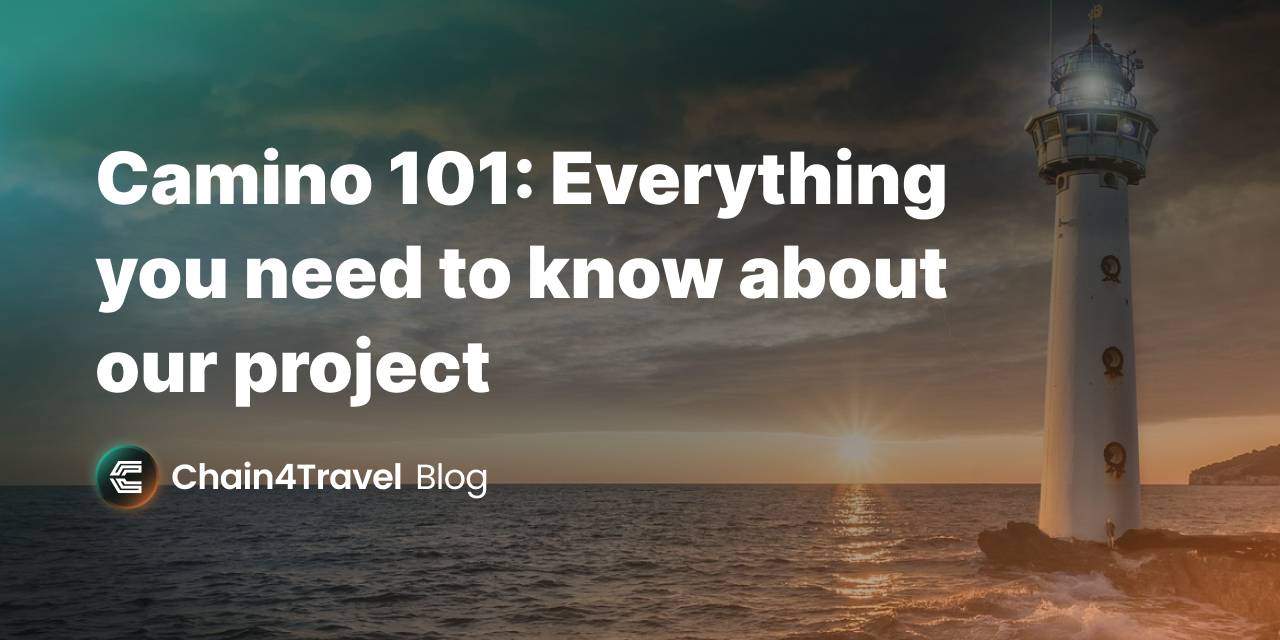
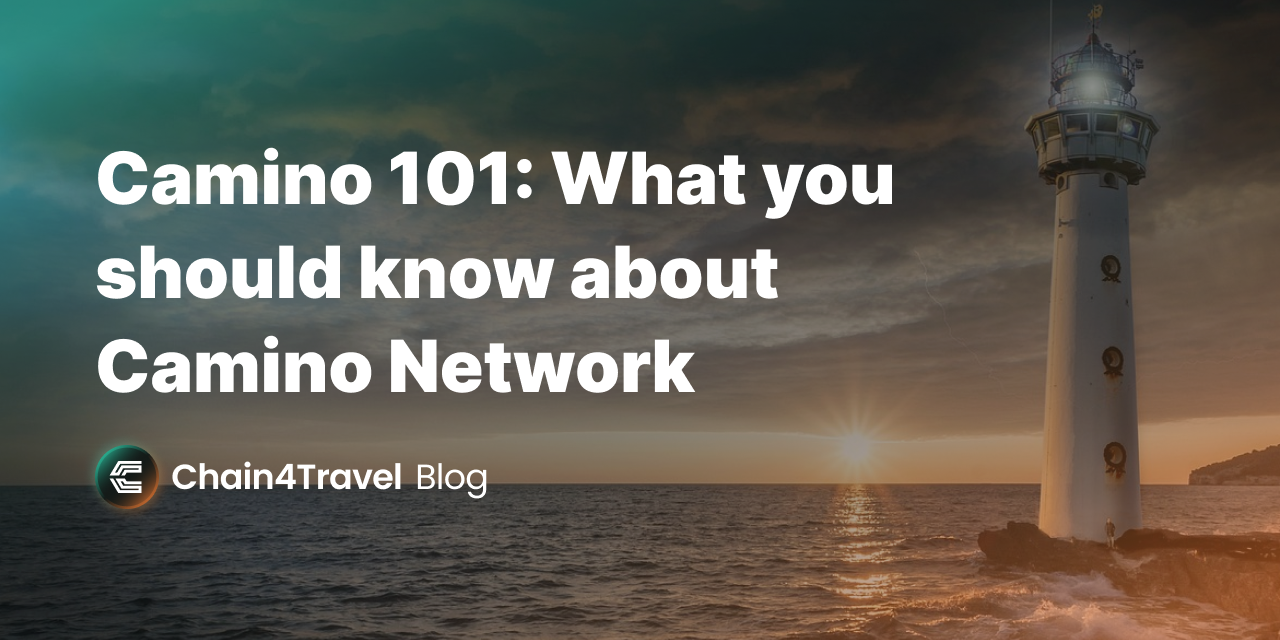
new article title update

Changed region(s): [[0.0625, 0.375, 0.75, 0.5], [0.0625, 0.5312, 0.5625, 0.625], [0.4062, 0.2188, 0.75, 0.3438]]

diff --git a/camino-101-everything-you-need-to-know-about-our-project.html b/camino-101-everything-you-need-to-know-about-our-project.html
@@ -1,6 +1,6 @@
 ---
 layout: default
-title: "Camino 101: Everything you need to know about our project"
+title: "Camino 101: What you should know about Camino Network"
 description: So far, we have been talking a lot about the basics of blockchains and Web3. Today we want to share more insights about our project Camino.
 socialImage: social_camino101.png
 ---
@@ -9,7 +9,7 @@ socialImage: social_camino101.png
     <div class="container mx-auto flex flex-col items-center relative z-10 text-center max-w-5xl">
         <div class="text-secondary uppercase text-sm font-bold tracking-widest text-center mb-4 lg:mb-8">Blog article - January 20, 2023</div>
         <h1 class="lg:text-7xl text-3xl mb-8 font-bold text-white">
-            Camino 101: Everything you need to know about our project
+            Camino 101: What you should know about Camino Network
         </h1>
         <p class="text-gray-200 text-lg md:text-2xl md:pr-8">
             Today we want to share more insights about our project Camino. 

diff --git a/_includes/web3-article-teaser.html b/_includes/web3-article-teaser.html
@@ -2,7 +2,7 @@
     <div class="bg-gray-900 z-10 relative rounded-2xl p-6 lg:flex items-center">
         <img src="/images/camino101-article.png" class="w-full lg:w-auto h-auto lg:h-32 xl:h-48 rounded-2xl" alt="">
         <div class="lg:mx-12 my-4 lg:my-0">
-            <h2 class="text-2xl 2xl:text-3xl font-bold mb-2">Camino 101: Everything you need to know about our project </h2>
+            <h2 class="text-2xl 2xl:text-3xl font-bold mb-2">Camino 101: What you should know about Camino Network </h2>
             <div class="flex flex-col md:flex-row items-start mt-4">
                 <a
                     class="mb-4 md:mb-0 w-full md:w-auto text-center transition-colors whitespace-nowrap inline-block font-semibold border border-secondary mr-2 text-gray-900 bg-secondary hover:bg-white hover:border-white hover:text-gray-900 py-2 px-6 rounded-lg lg:text-lg"

diff --git a/news.html b/news.html
@@ -29,7 +29,7 @@ description: All the latest news and press releases about Chain4Travel
       <img src="/images/camino101-article.png" class="w-full object-cover max-h-32 md:max-h-96" alt="{{media.image}} - cover">
       <div class="p-6 h-full flex flex-col">
         <h3 class="text-3xl leading-tight mb-4 font-bold line-clamp-3">
-          Camino 101: Everything you need to know about our project
+          Camino 101: What you should know about Camino Network
         </h3>
         <p>
           So far, we have been talking a lot about the basics of blockchains and Web3. Today we want to share more insights about our project Camino.
